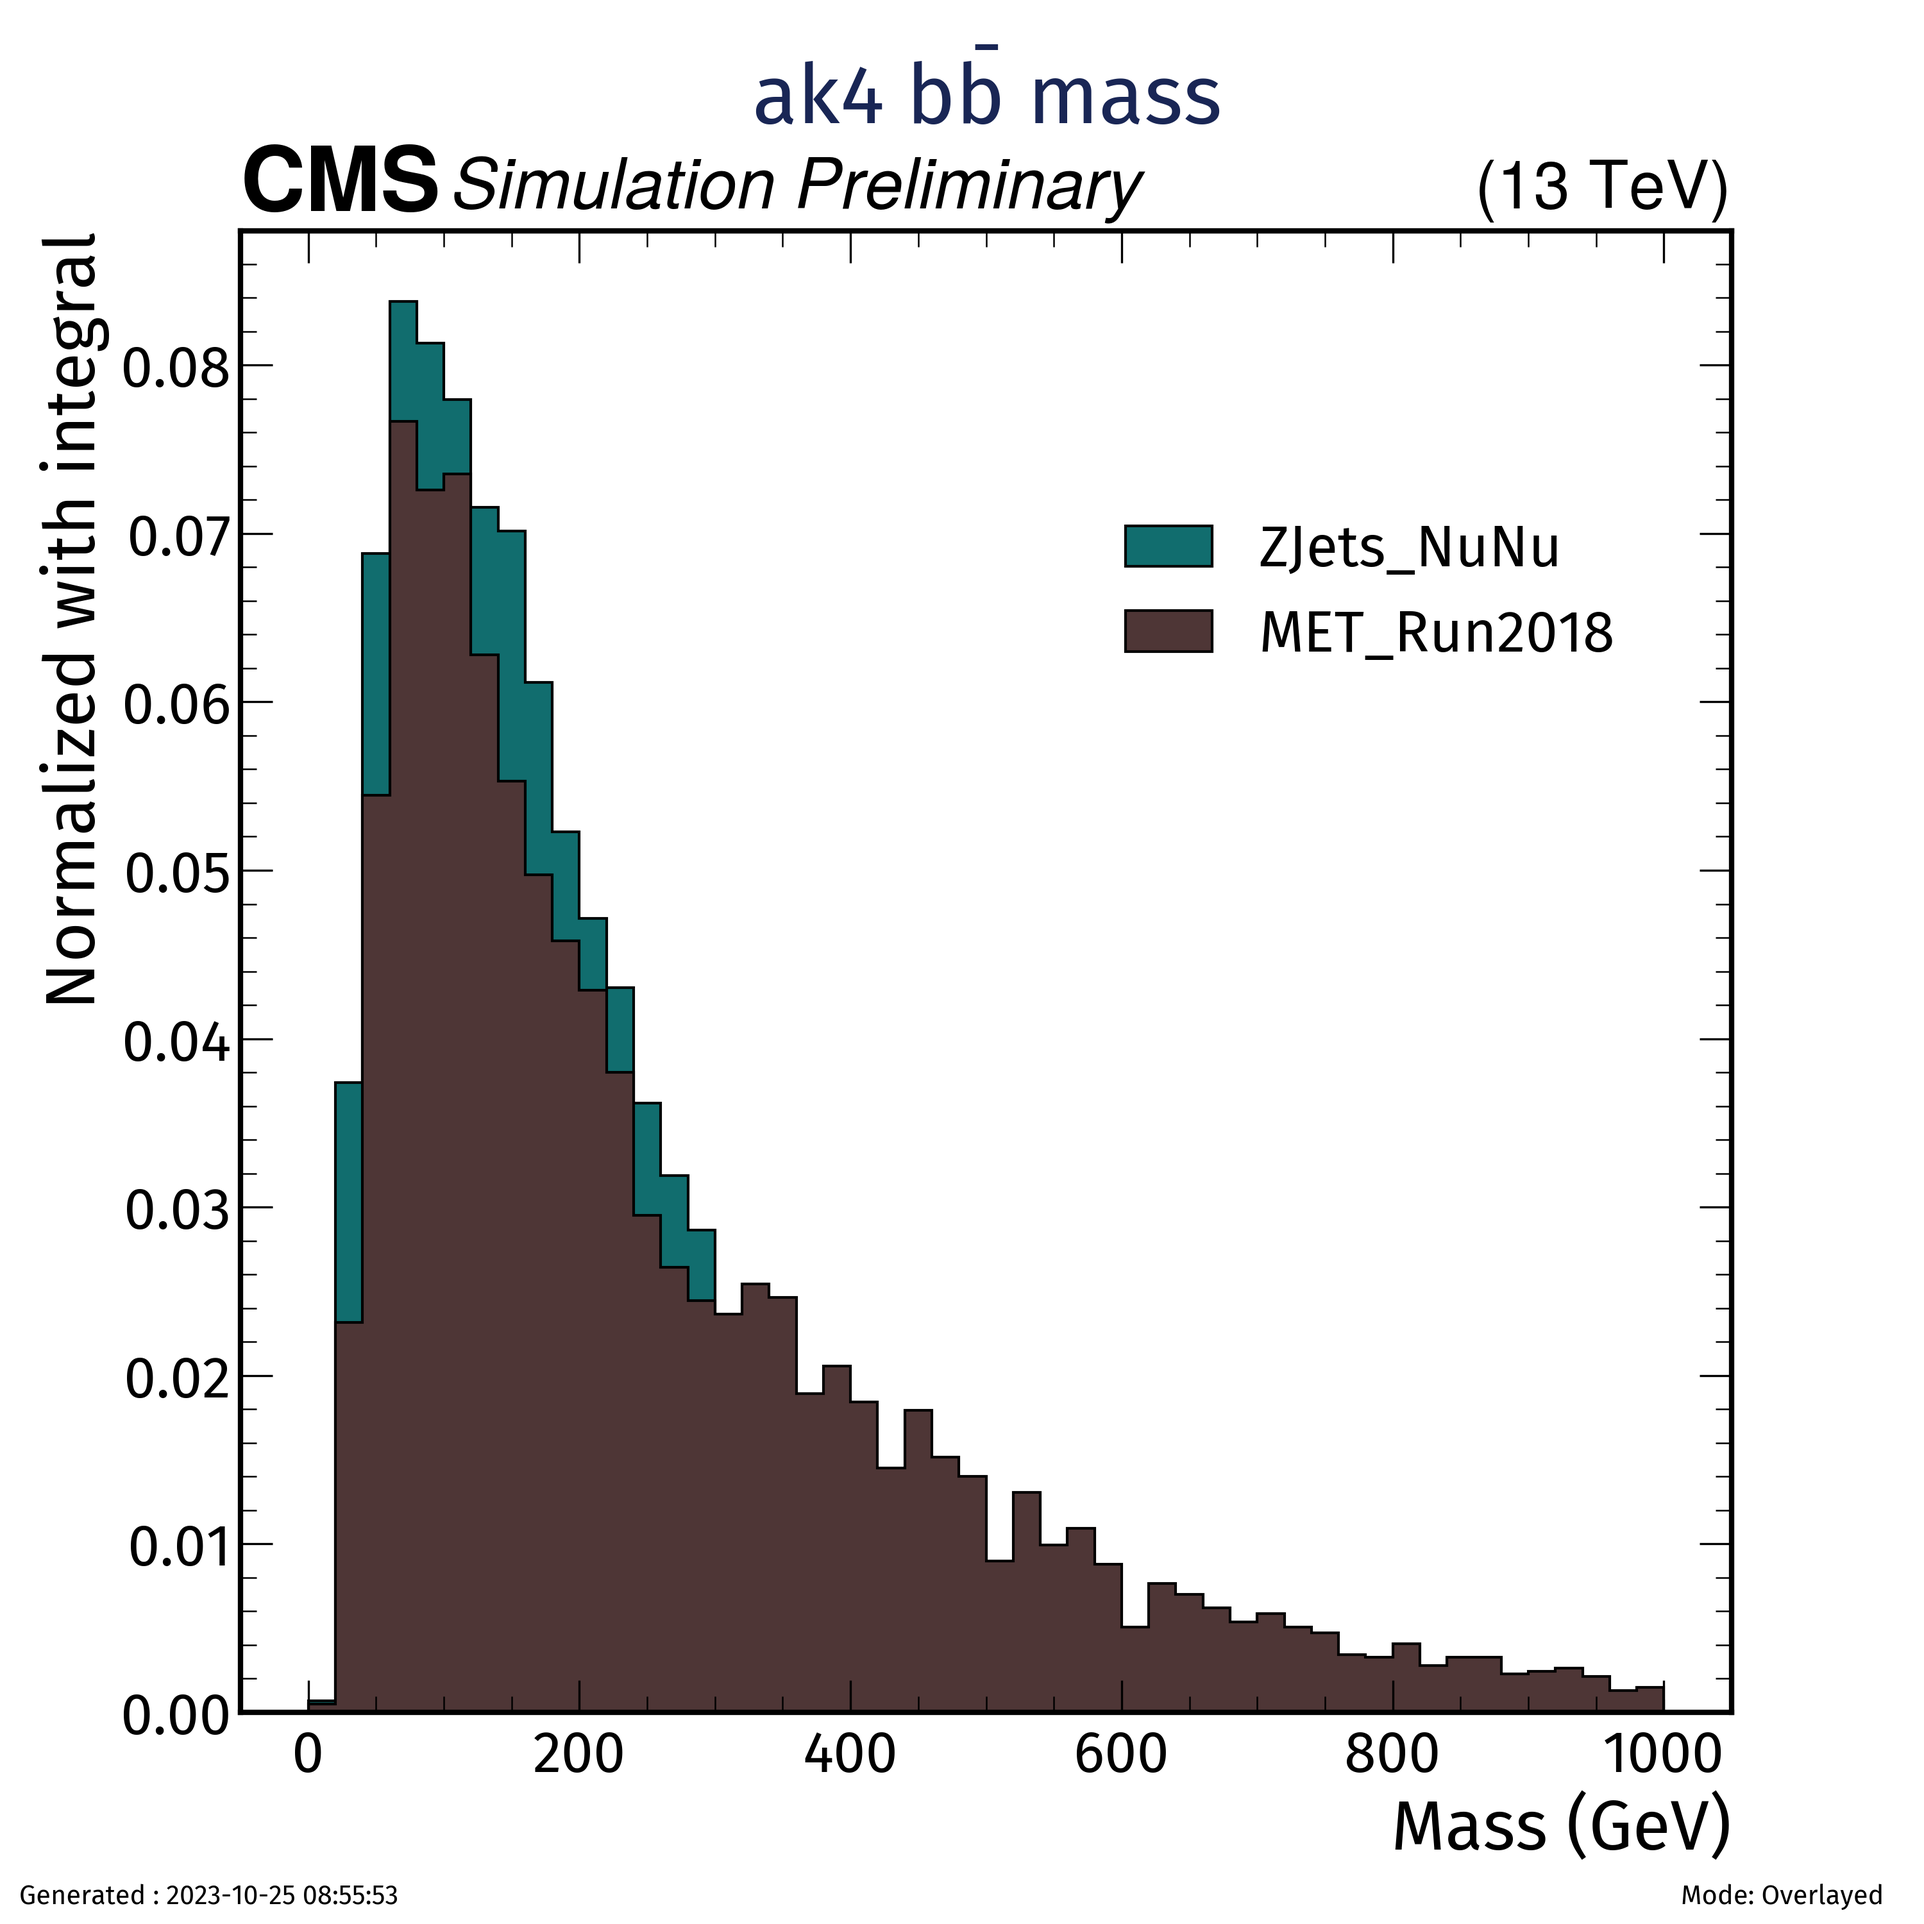
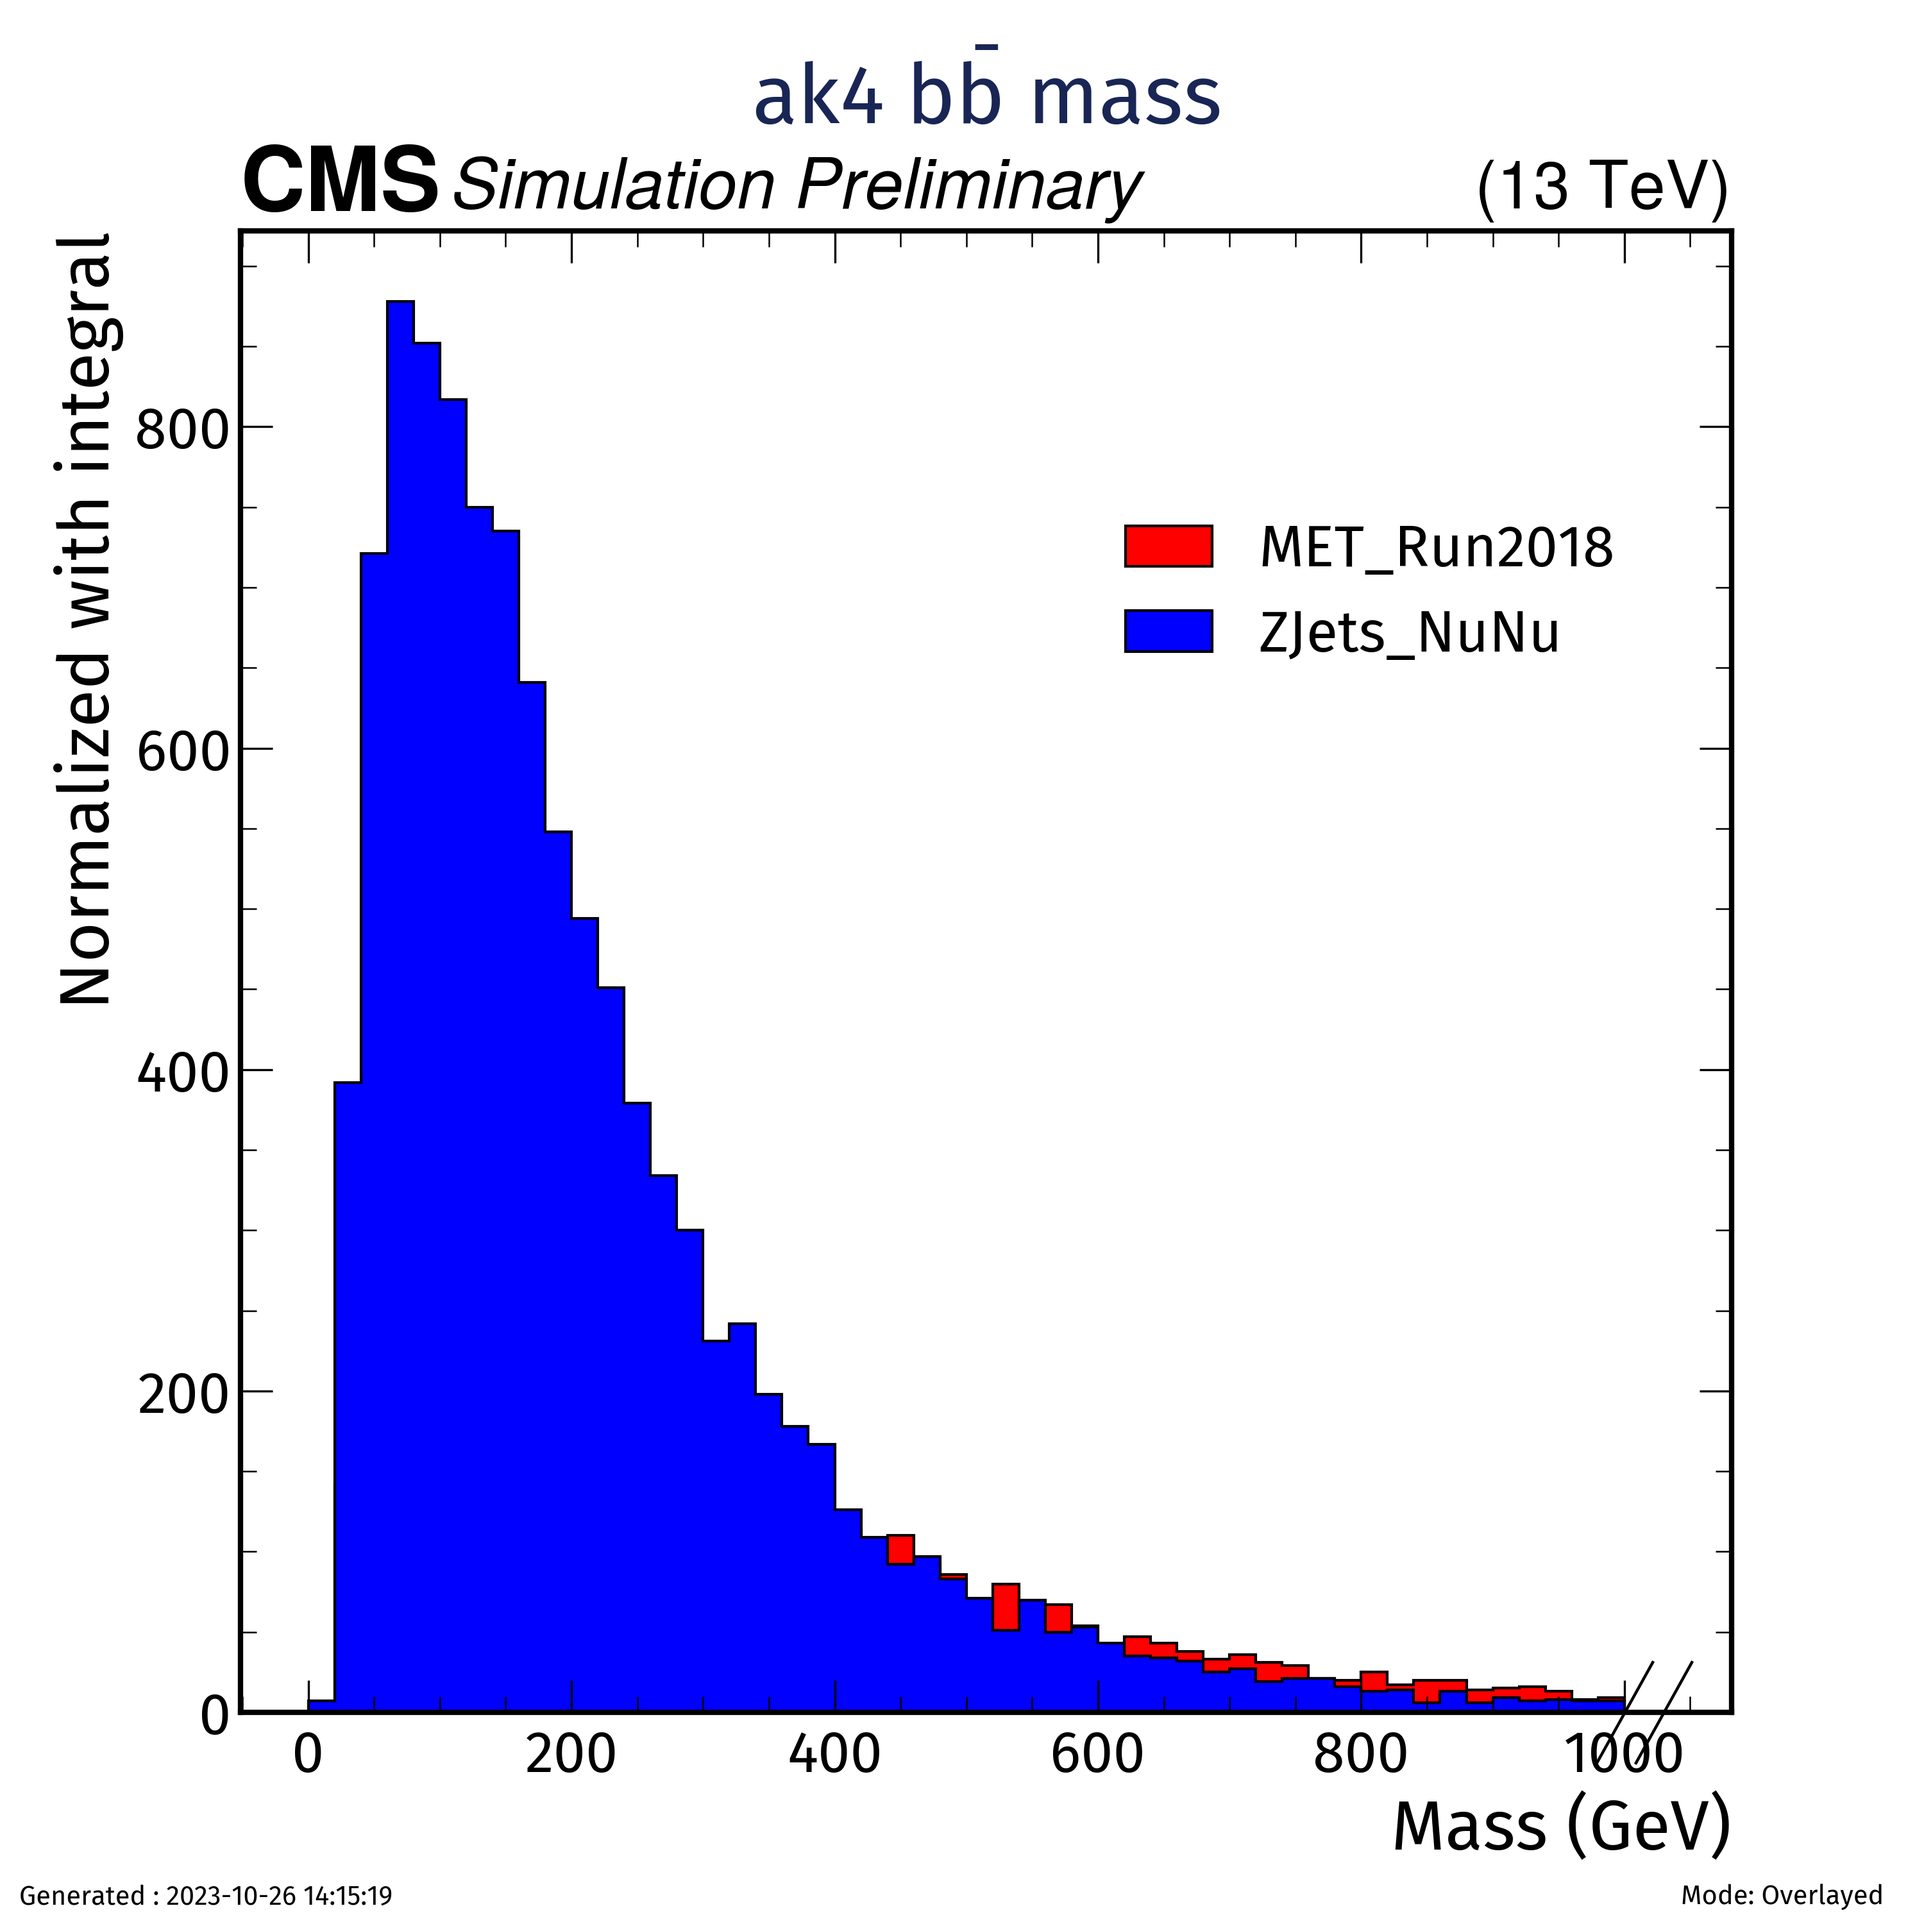
Automated Commit

diff --git a/Backgrounds/plotter_Zjetsnunu.py b/Backgrounds/plotter_Zjetsnunu.py
@@ -134,15 +134,26 @@ def combined_plot_manual(Output):
     
     fig, ax = plt.subplots()
     hep.histplot(
-        [Data_hist,Zjets_hist],
-        histtype=["step","fill"],
-        color=["red","blue"],
+        Data_hist ,
+        histtype='fill',
+        color="red",
         #marker=[],
-        label=["MET_Run2018", "ZJets_NuNu"],
+        label="MET_Run2018",
         edgecolor="black",
         lw=1,
         ax=ax
         )
+    hep.histplot(
+        Zjets_hist,
+        histtype="fill",
+        color="blue",
+        #marker=[],
+        label="ZJets_NuNu",
+        edgecolor="black",
+        lw=1,
+        ax=ax
+        )
+
     hep.cms.label("Preliminary", data= False)
     ax.set_ylabel("Normalized with integral")
     ax.set_xlabel("Mass (GeV)")
@@ -156,7 +167,7 @@ def combined_plot_manual(Output):
     print(plotname , f" created at {os.getcwd()}")
 
     Data_hist = Output["MET_Run2018"]["Histograms"]["DiJetMETcut"]
-    Zjets_hist = Output["Zjets_NuNu"]["Histograms"]["DiJetMETcut"]
+    Zjets_hist = Output["ZJets_NuNu"]["Histograms"]["DiJetMETcut"]
     fig, ax = plt.subplots()
     hep.histplot(
         [Data_hist,Zjets_hist],
